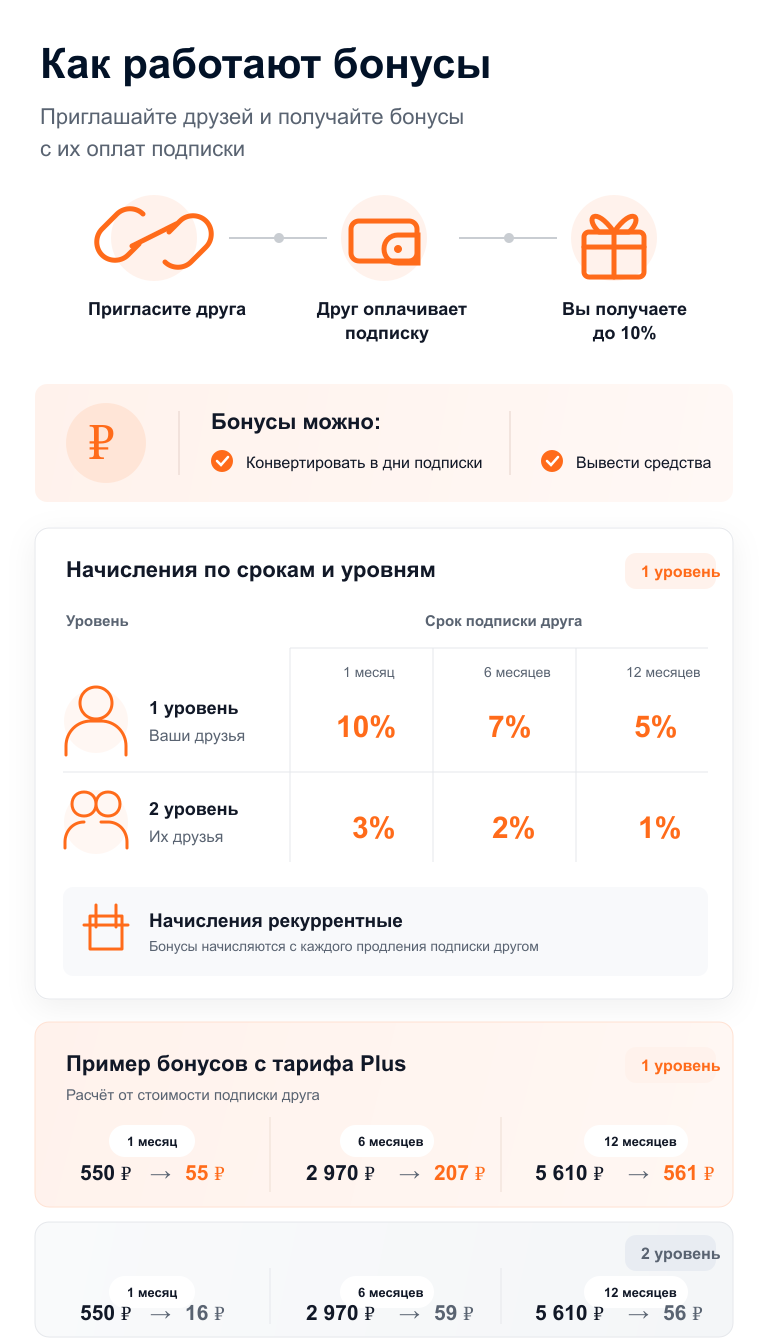
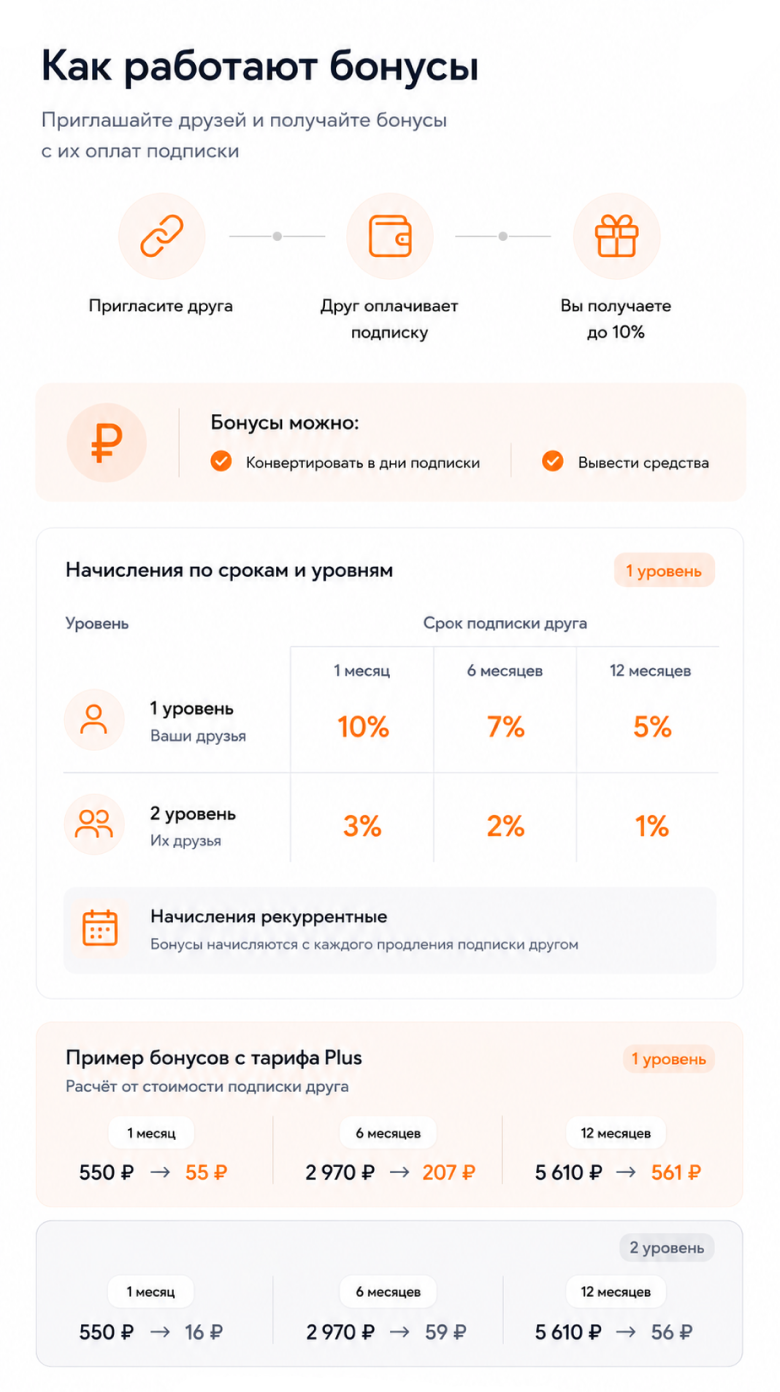
Use provided bonus popup image

diff --git a/src/styles.css b/src/styles.css
@@ -2370,12 +2370,12 @@ button {
 .invite-card h2 {
   display: flex;
   align-items: center;
-  gap: 4px;
+  gap: 2px;
 }
 
 .invite-card h2 button {
-  width: 17px;
-  height: 17px;
+  width: 12px;
+  height: 12px;
   display: grid;
   place-items: center;
   background: transparent;